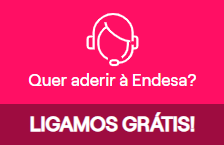
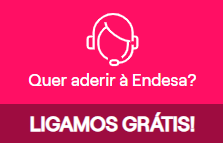
changed c2c image and js file

diff --git a/public/iframe.js b/public/iframe.js
@@ -1,0 +1,43 @@
+function makeFrame() {
+  document
+    .getElementById("endesaIframe")
+    .setAttribute(
+      "style",
+      "display:block;width:300px;height:455px;border:0;scroll:hidden;position:fixed;right:0;top:100px;"
+    );
+  document.getElementById("iframeImg").setAttribute("style", "display:none;");
+}
+
+function makeDiv() {
+  ifrm = document.createElement("img");
+  ifrm.setAttribute("id", "iframeImg");
+  ifrm.setAttribute(
+    "style",
+    "width:200px;height:130px;border:0;scroll:hidden;position: fixed;right:0;top:400px; cursor:pointer"
+  );
+  ifrm.setAttribute("src", "http://localhost:5066/c2c.png");
+  ifrm.setAttribute("onclick", "makeFrame()");
+  document.body.appendChild(ifrm);
+  ifrm = document.createElement("IFRAME");
+  ifrm.setAttribute("id", "endesaIframe");
+  ifrm.setAttribute("style", "display:none;");
+  document.body.appendChild(ifrm);
+  ifrm.setAttribute("src", "http://localhost:5066");
+}
+
+function closeIframe() {
+  //document.getElementById("endesaIframe").setAttribute("style", "display:none");
+  document.getElementById("endesaIframe").style.display = "none";
+  document
+    .getElementById("iframeImg")
+    .setAttribute(
+      "style",
+      "display:block;width:200px;height:130px;border:0;scroll:hidden;position: fixed;right:0;top:400px; cursor:pointer"
+    );
+}
+
+window.addEventListener("message", function (e) {
+  closeIframe();
+  // makeDiv();
+});
+makeDiv();
